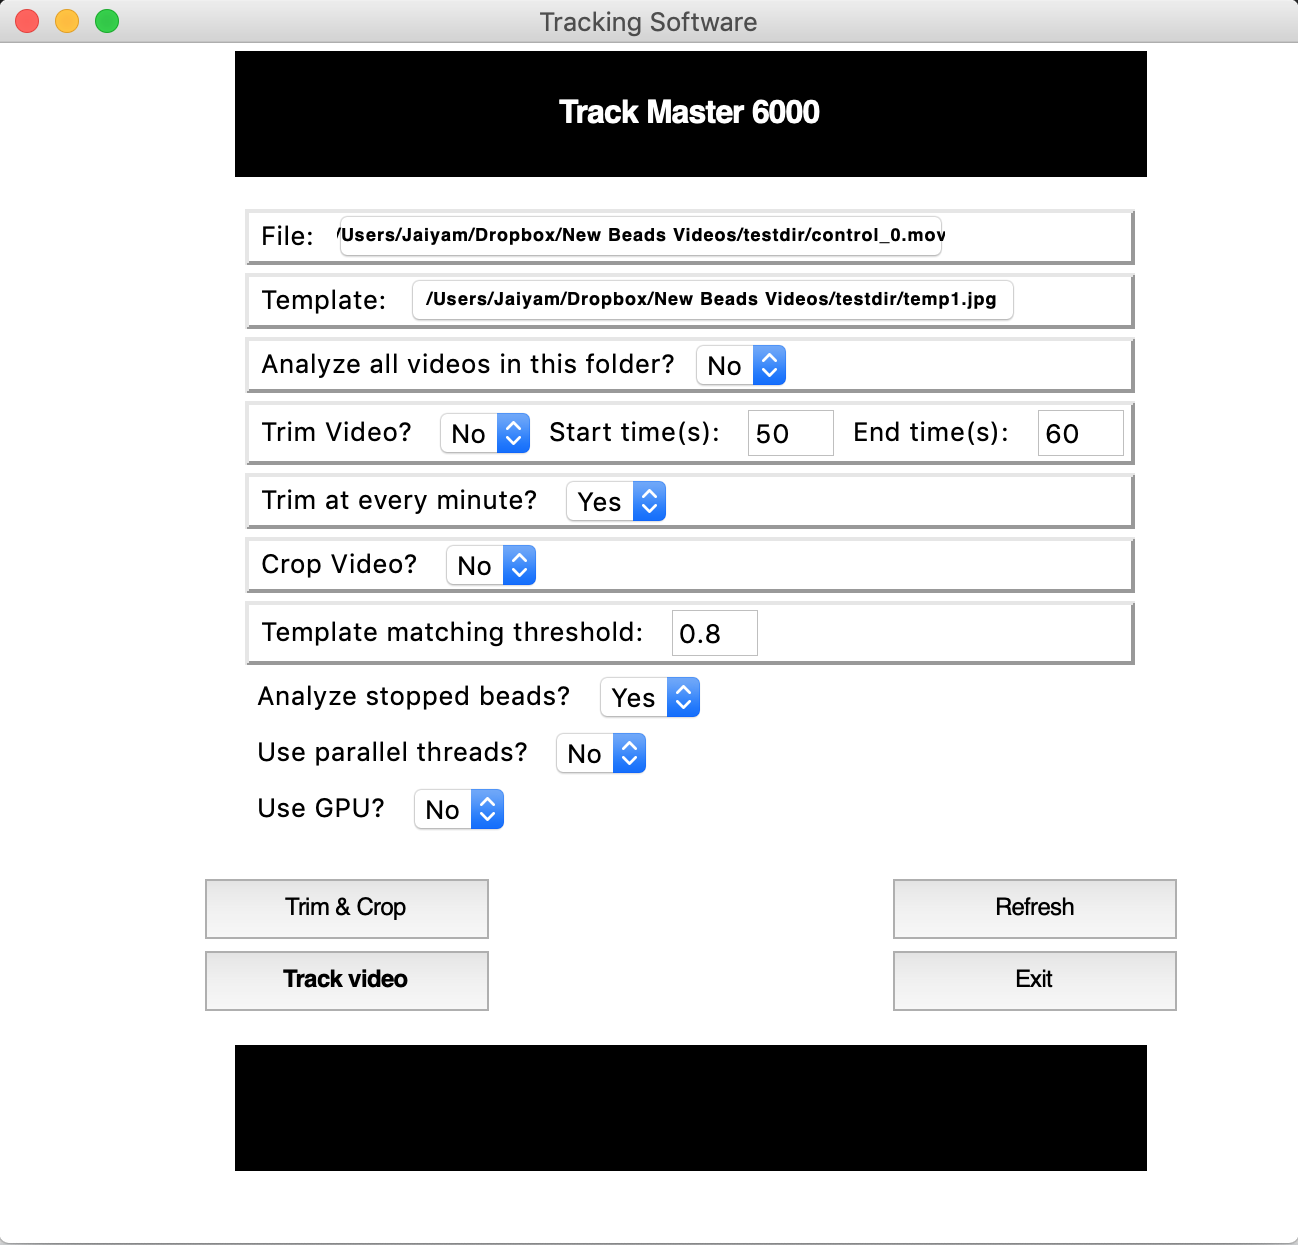
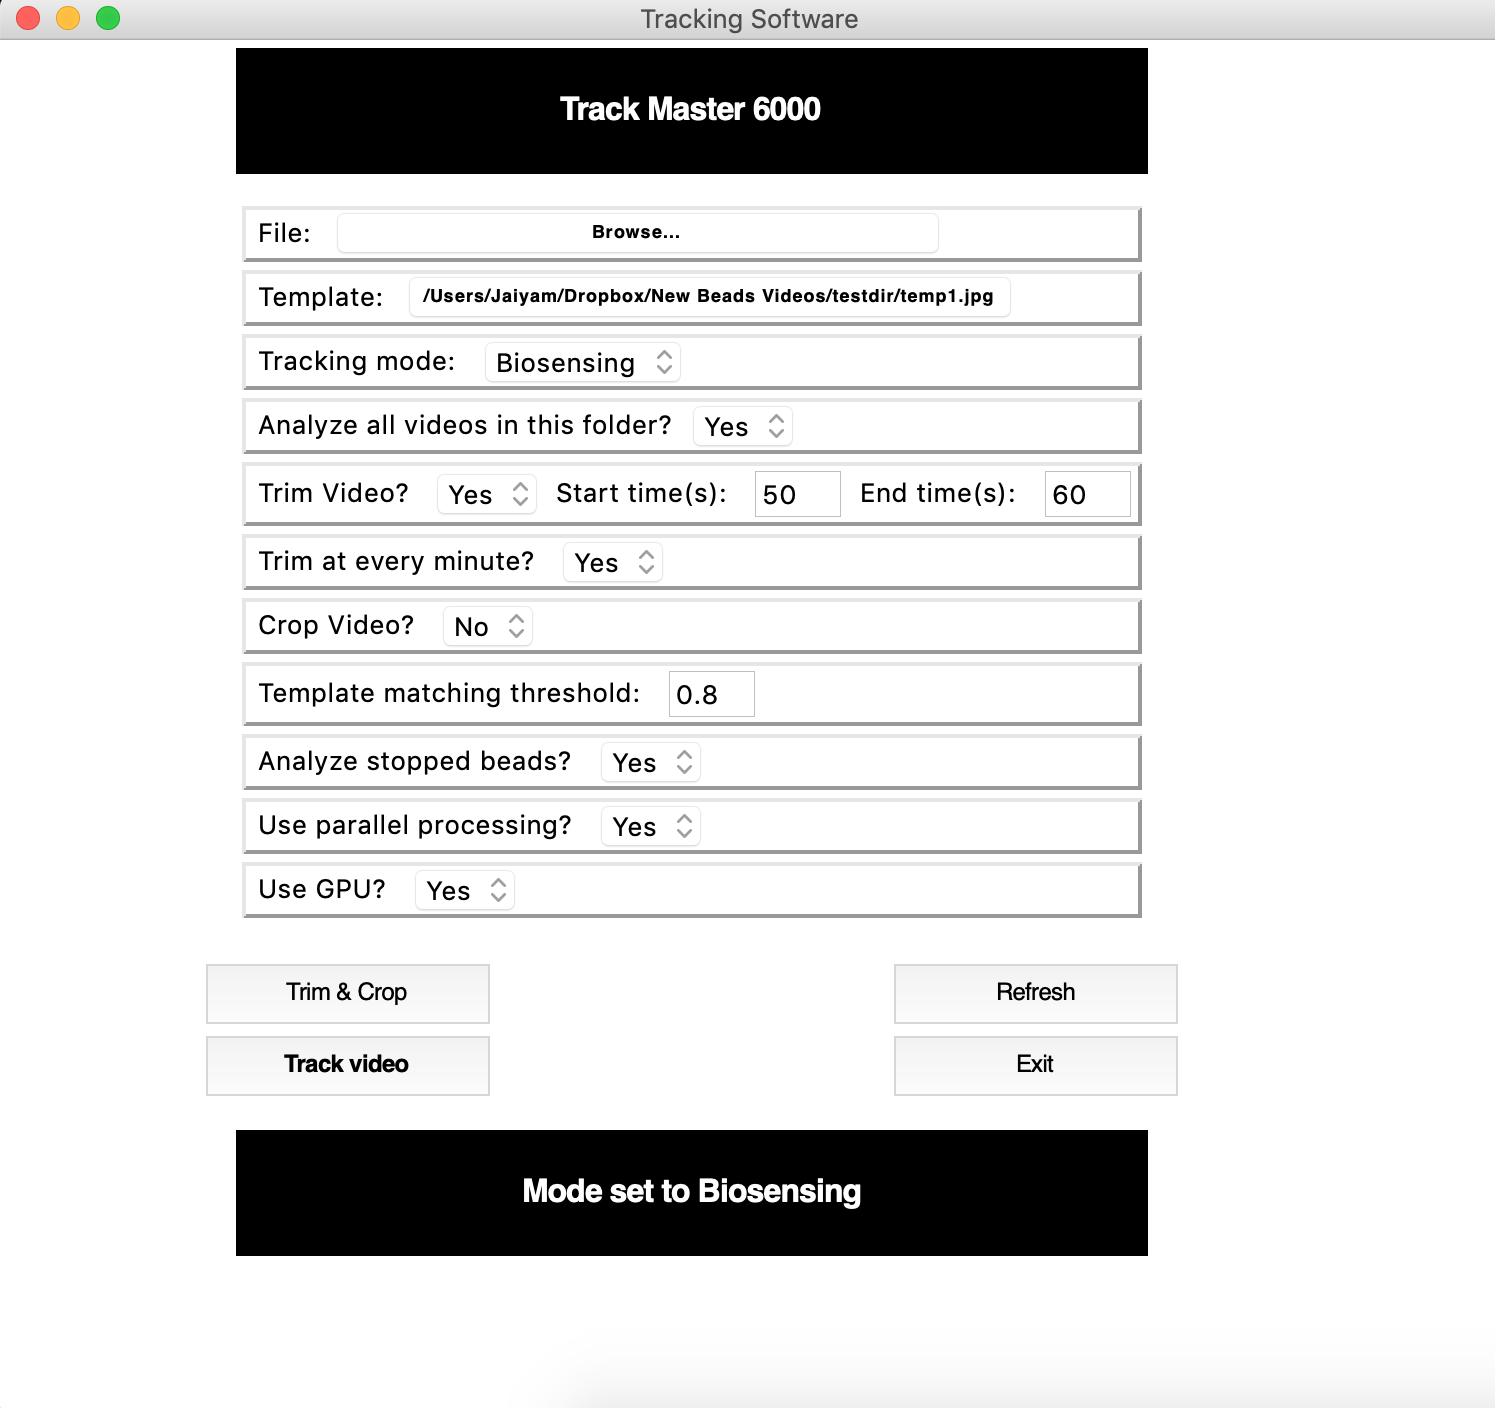
updated readme

diff --git a/README.md b/README.md
@@ -1,6 +1,6 @@
 # tracking
 Particle tracking software
-![logo](https://github.com/dataplayer12/tracking/blob/master/tracklogo.png)
+![logo](https://github.com/dataplayer12/tracking/blob/master/images/tracklogo.png)
 
 ## Supported platforms
 ![macos](https://github.com/gilbarbara/logos/blob/master/logos/macosx.svg)
@@ -14,7 +14,7 @@ git clone http://www.github.com/dataplayer12/tracking.git
 cd tracking
 conda create --name tracking --file environment.txt
 conda activate tracking
-cd cython_hw/
+cd cython_modules/
 python setup.py build_ext --inplace
 cd ../
 python tutils.py
@@ -34,7 +34,9 @@ python frontend.py
 This will bring up a graphical user interface as below:
 ![gui](https://github.com/dataplayer12/tracking/blob/master/images/gui.png)
 
-The GUI is easy to use and is still under some development. Basic tracking functionality with a single process and thread is available int he current version.
+The GUI is easy to use and is still under some development.
 
 During tracking the software displays a progress bar:
 ![waitbar](https://github.com/dataplayer12/tracking/blob/master/images/waitbar.png)
+
+Version 0.2 of TM6000 introduces modes for easier setting of two kinds of experiments. This release also introduces multi-processing for tracking several videos in parallel on a multi-core computer. For example, here we show tracking of 15 videos simultaneously on a Ryzen 3700x system running Ubuntu 18.04.
